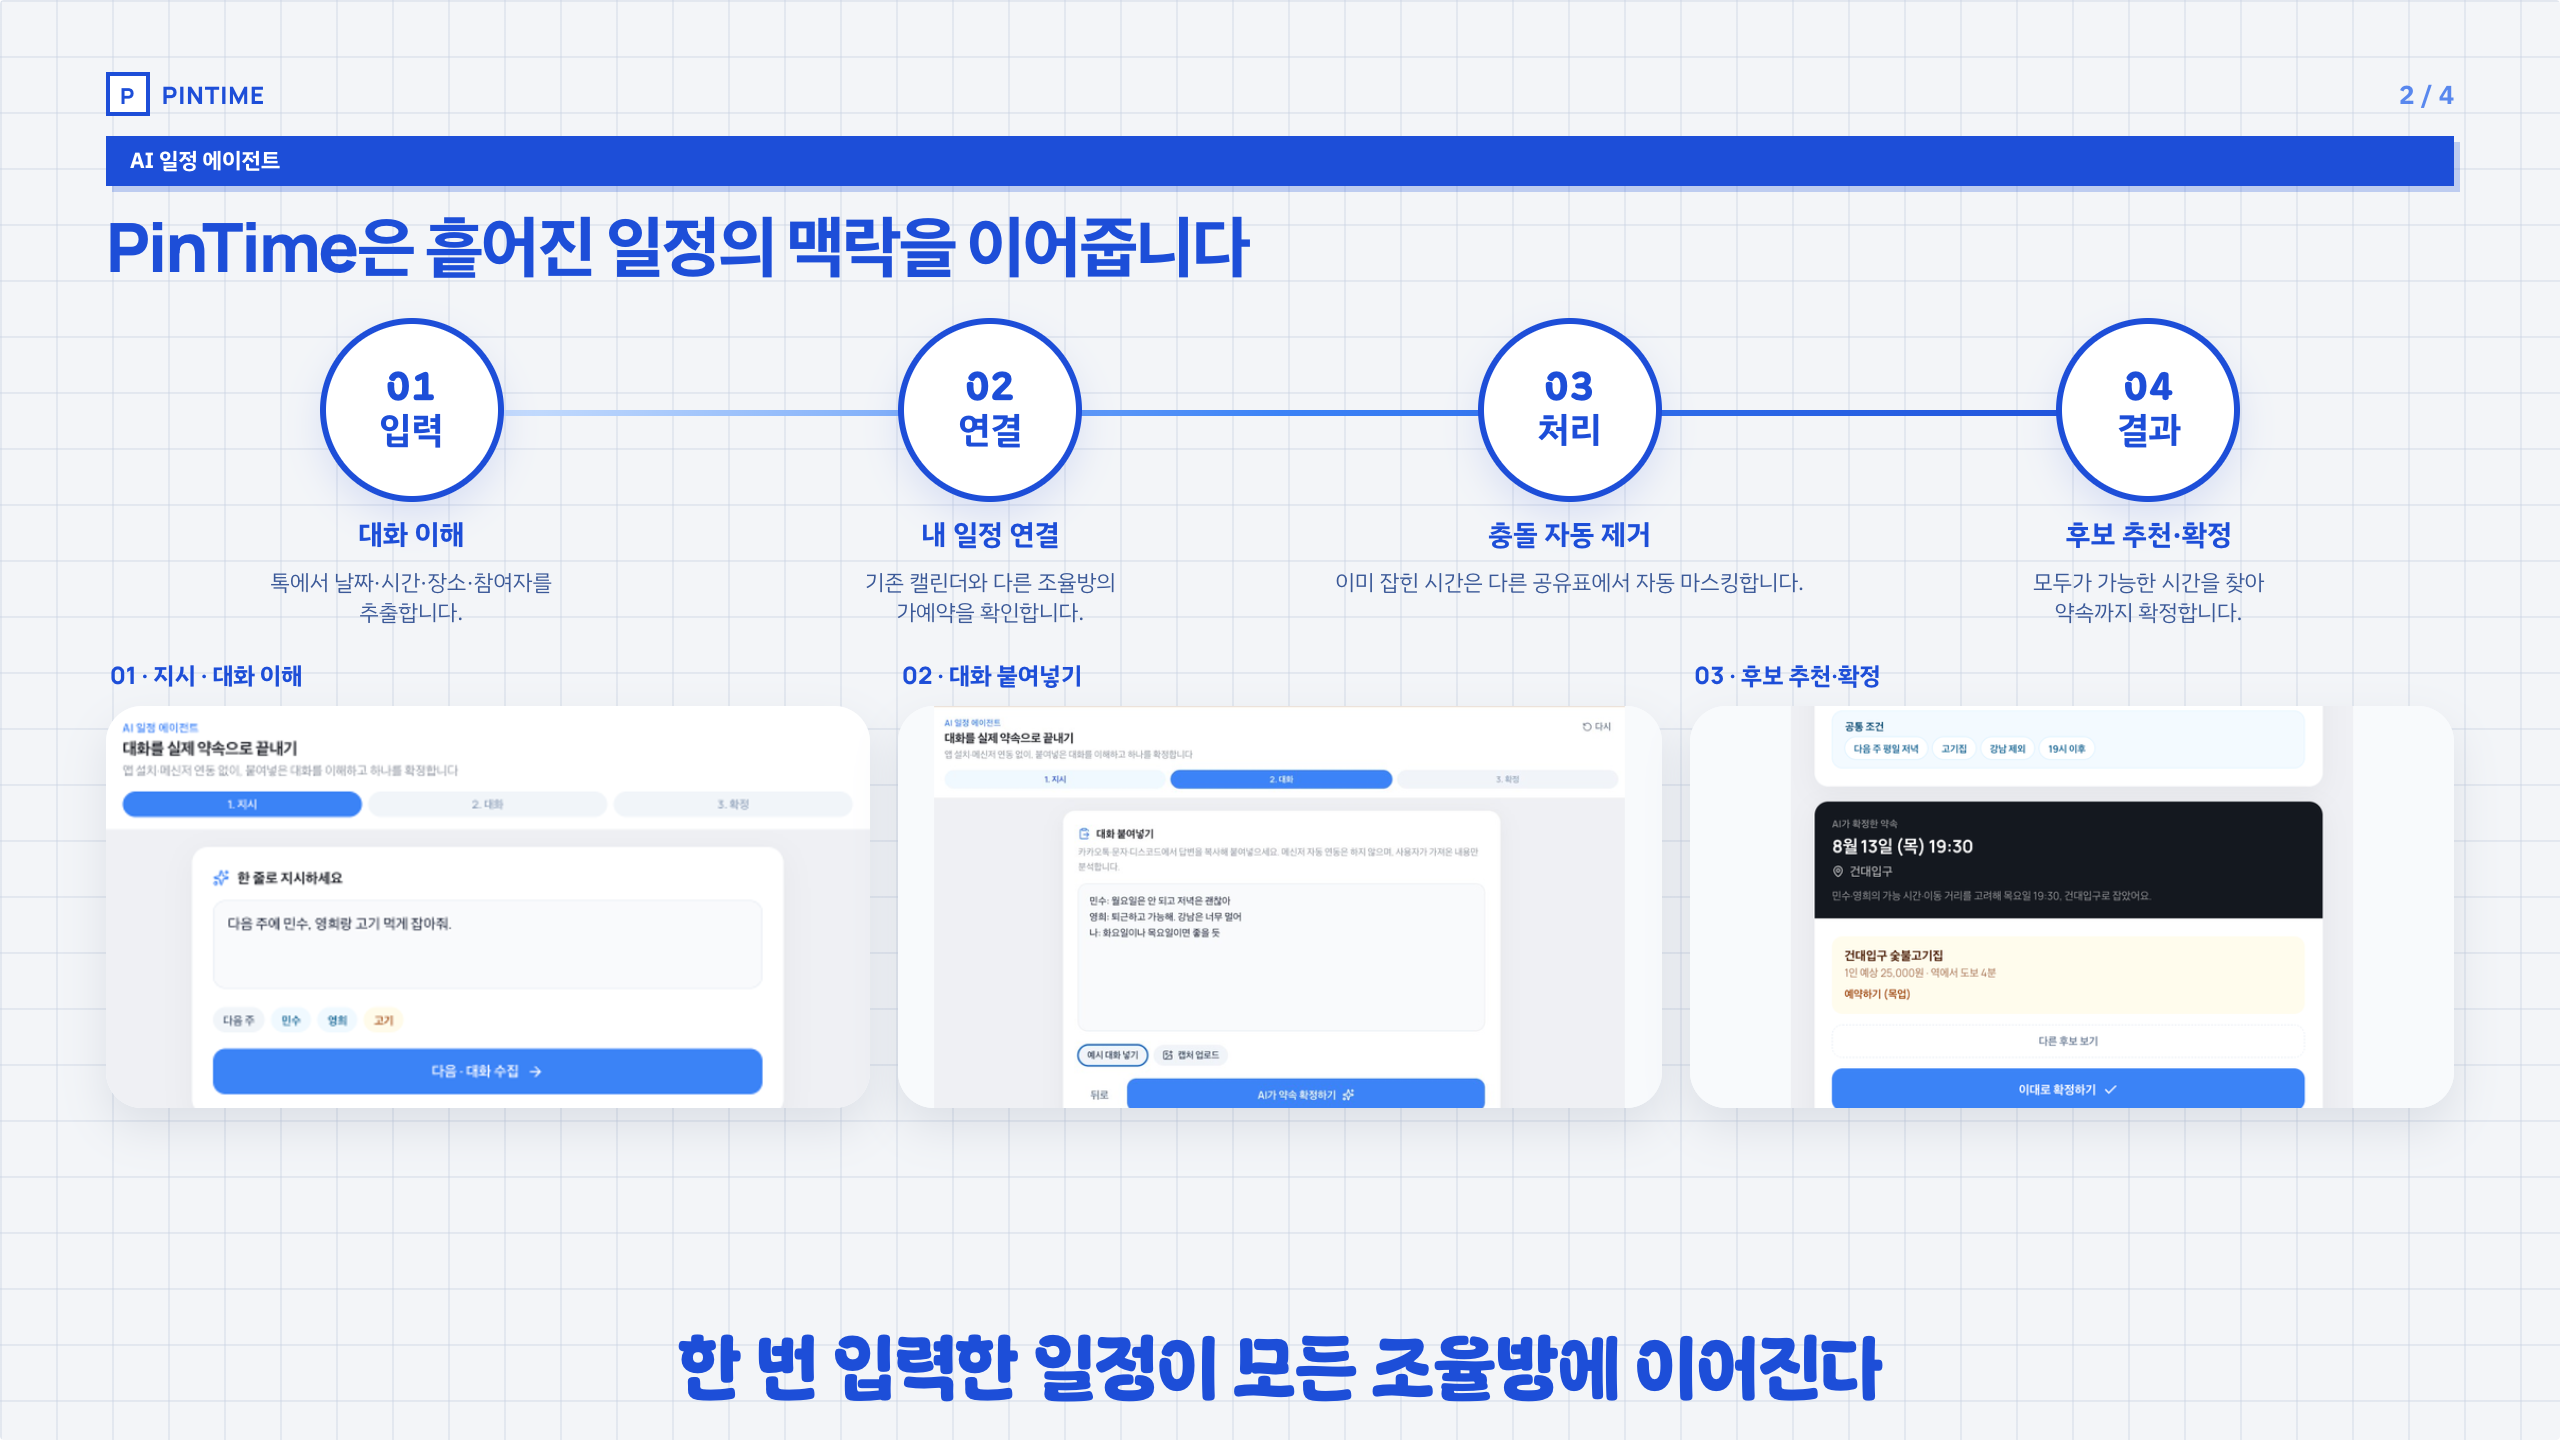
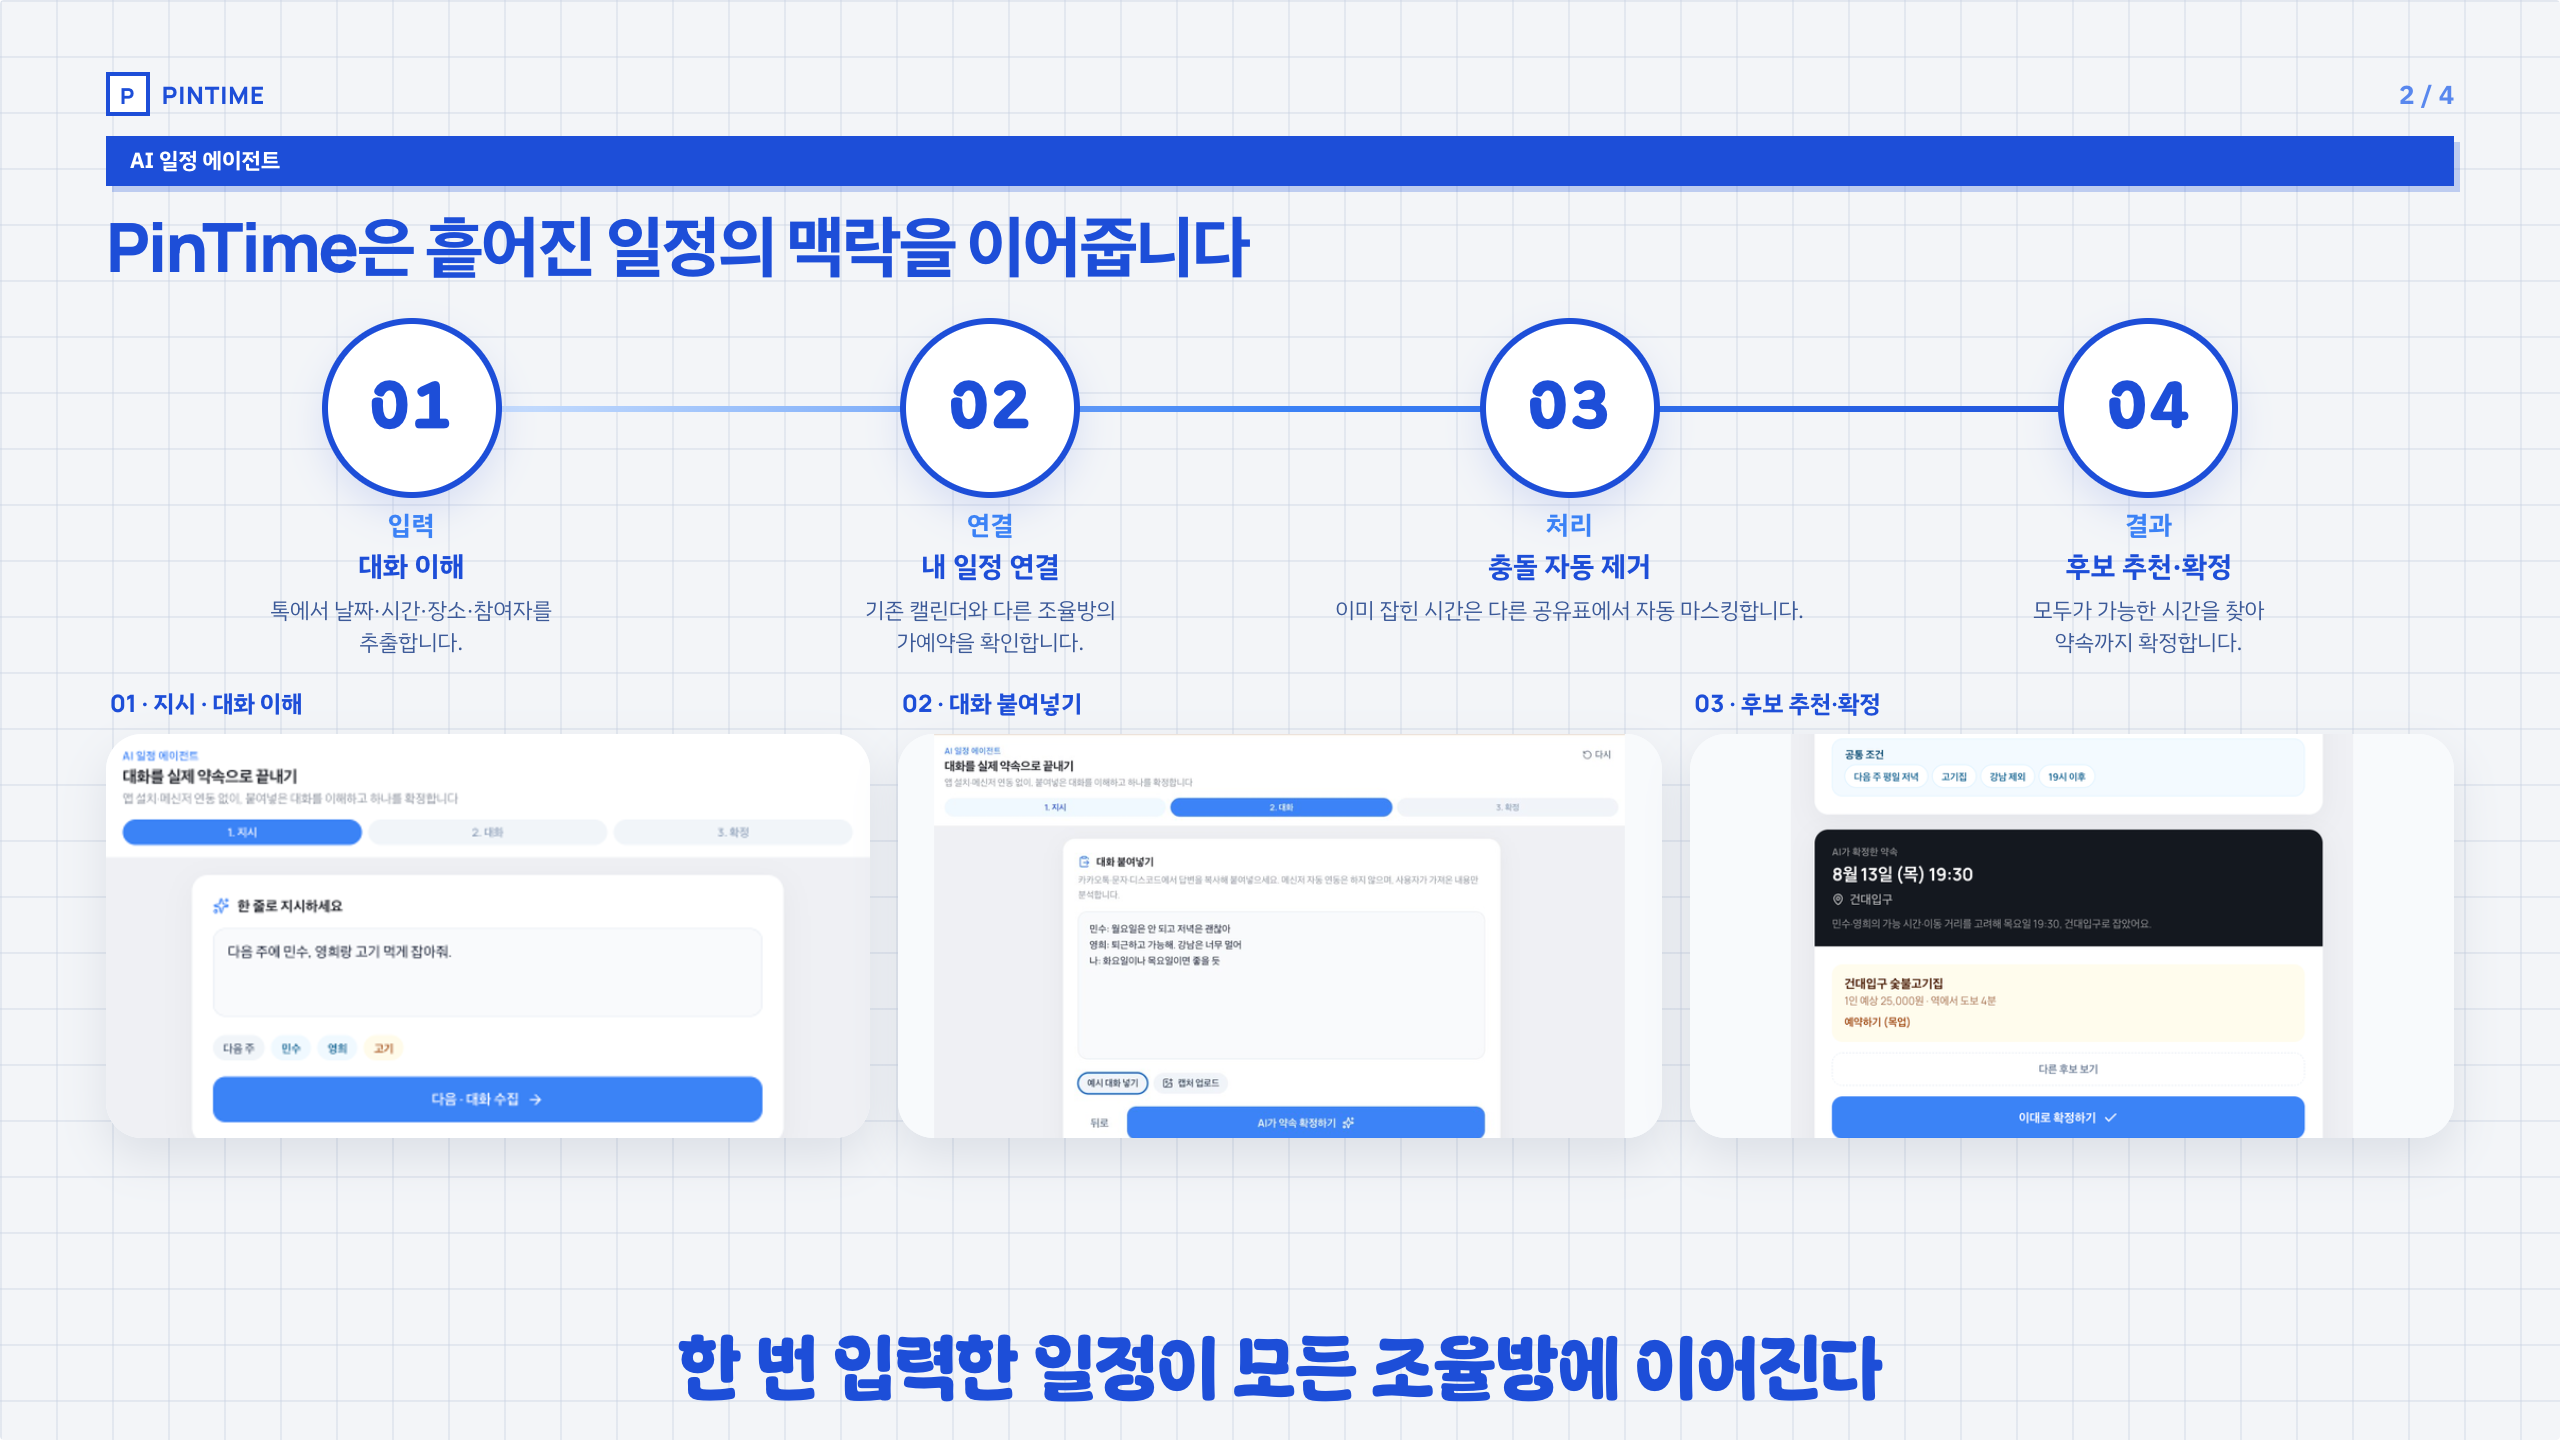
Show only numbers inside AI pipeline orbs.

diff --git a/public/pitch.html b/public/pitch.html
@@ -508,7 +508,7 @@
         position: absolute;
         left: 12%;
         right: 12%;
-        top: 46px;
+        top: 44px;
         height: 3px;
         background: linear-gradient(
           90deg,
@@ -528,7 +528,7 @@
         flex-direction: column;
         align-items: center;
         text-align: center;
-        gap: 8px;
+        gap: 6px;
         position: relative;
         z-index: 1;
       }
@@ -536,32 +536,30 @@
         content: none;
       }
       .ai-step .orb {
-        width: 92px;
-        height: 92px;
+        width: 90px;
+        height: 90px;
         border-radius: 50%;
         background: #fff;
         border: 3px solid var(--blue);
         box-shadow: 0 8px 18px rgba(29, 78, 216, 0.12);
-        display: flex;
-        flex-direction: column;
-        align-items: center;
-        justify-content: center;
-        gap: 2px;
+        display: grid;
+        place-items: center;
       }
       .ai-step .orb .n {
         font-family: 'Gumi Romance', 'IBM Plex Sans KR', sans-serif;
         font-weight: 400;
-        font-size: 18px;
+        font-size: 30px;
         letter-spacing: 0.02em;
         color: var(--blue);
         line-height: 1;
       }
-      .ai-step .orb .stage {
+      .ai-step .stage {
         font-family: Manrope, 'IBM Plex Sans KR', sans-serif;
         font-weight: 800;
-        font-size: 18px;
-        color: var(--blue);
+        font-size: 13px;
+        color: var(--blue-soft);
         line-height: 1.1;
+        letter-spacing: 0.02em;
       }
       .ai-step h3 {
         margin: 0;
@@ -2358,32 +2356,32 @@
             <div class="ai-step">
               <div class="orb">
                 <span class="n">01</span>
-                <span class="stage">입력</span>
               </div>
+              <span class="stage">입력</span>
               <h3>대화 이해</h3>
               <p><span class="nowrap">톡에서 날짜·시간·장소·참여자를</span><br />추출합니다.</p>
             </div>
             <div class="ai-step">
               <div class="orb">
                 <span class="n">02</span>
-                <span class="stage">연결</span>
               </div>
+              <span class="stage">연결</span>
               <h3>내 일정 연결</h3>
               <p>기존 캘린더와 다른 조율방의<br />가예약을 확인합니다.</p>
             </div>
             <div class="ai-step">
               <div class="orb">
                 <span class="n">03</span>
-                <span class="stage">처리</span>
               </div>
+              <span class="stage">처리</span>
               <h3>충돌 자동 제거</h3>
               <p>이미 잡힌 시간은 다른 공유표에서 자동 마스킹합니다.</p>
             </div>
             <div class="ai-step">
               <div class="orb">
                 <span class="n">04</span>
-                <span class="stage">결과</span>
               </div>
+              <span class="stage">결과</span>
               <h3>후보 추천·확정</h3>
               <p>모두가 가능한 시간을 찾아<br />약속까지 확정합니다.</p>
             </div>
